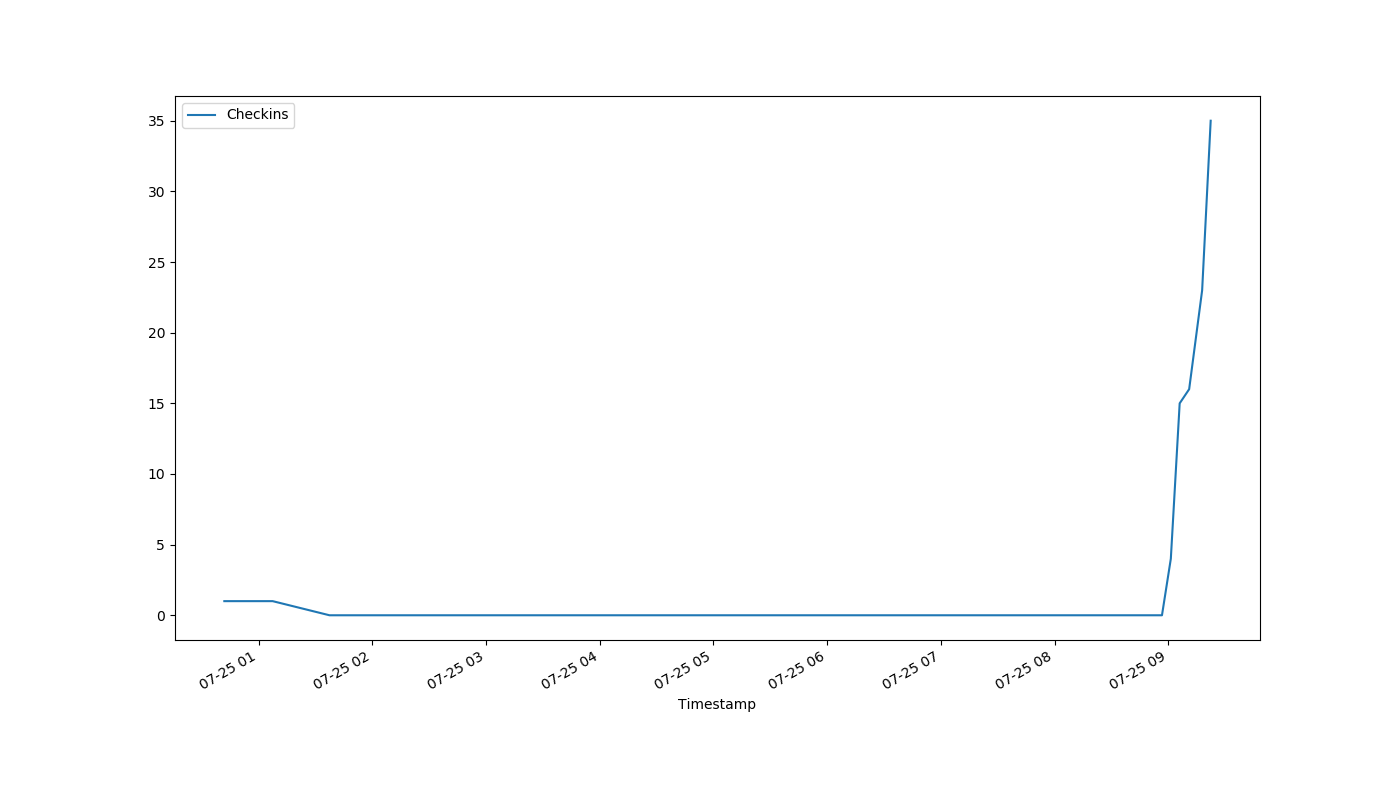
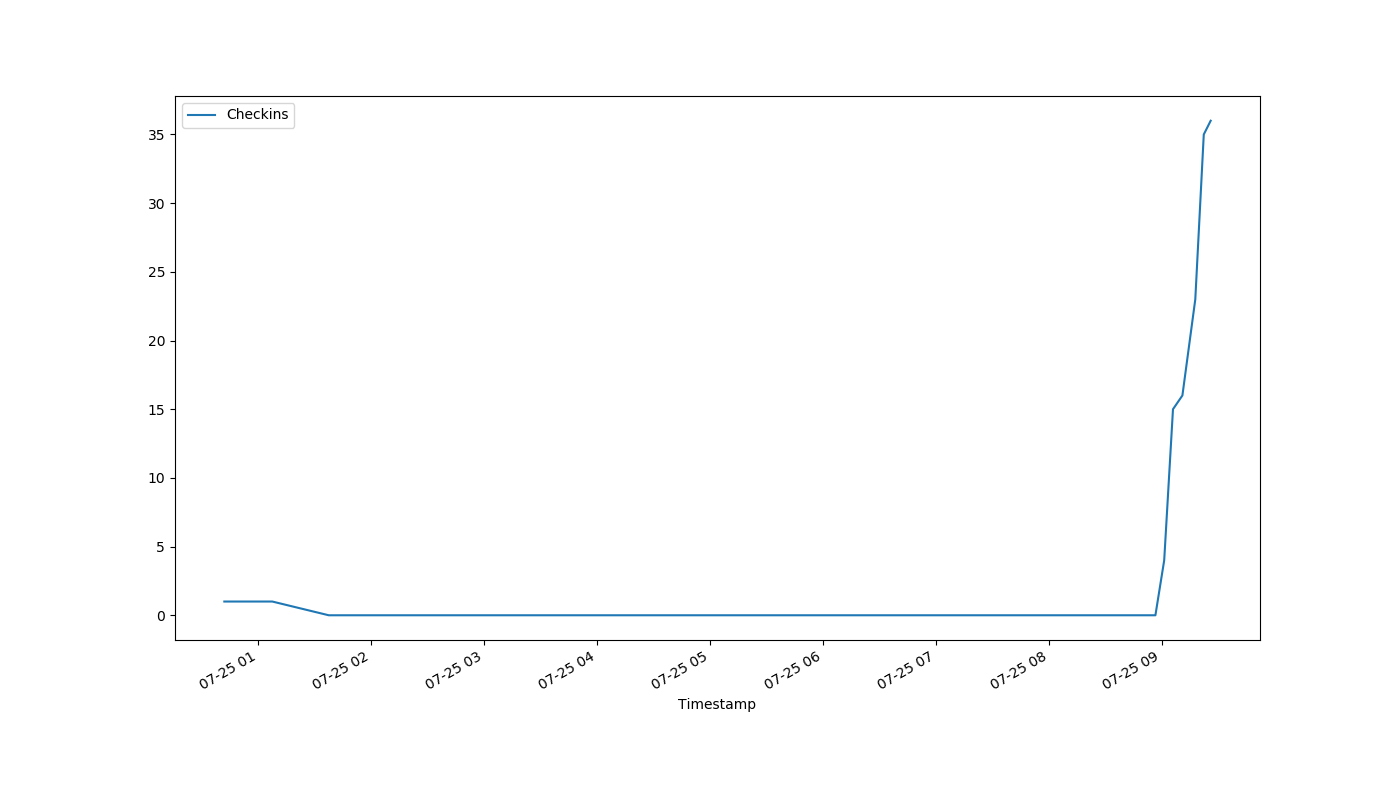
auto-Jul-25-09:26:48

diff --git a/index.html b/index.html
@@ -1,1 +1,1 @@
-<!DOCTYPE html><html><head><meta http-equiv="refresh" content="30"><link rel='stylesheet' href='holmcurrent.css'></head><body><p id='count'>35</p><div id='graph-wrap'><img id='graph' src='holmgraph-Jul-25.png'></div><p id='updated'>Last updated 09:23:12 / 09:22:21</p></body></html>
+<!DOCTYPE html><html><head><meta http-equiv="refresh" content="30"><link rel='stylesheet' href='holmcurrent.css'></head><body><p id='count'>36</p><div id='graph-wrap'><img id='graph' src='holmgraph-Jul-25.png'></div><p id='updated'>Last updated 09:26:12 / 09:26:02</p></body></html>
